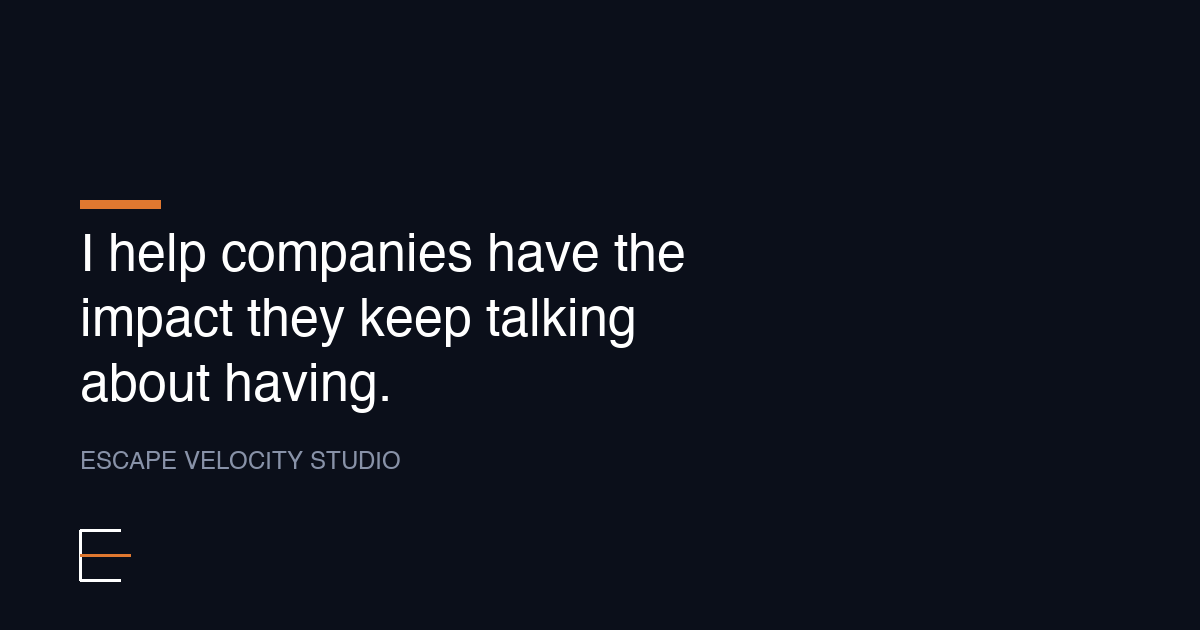
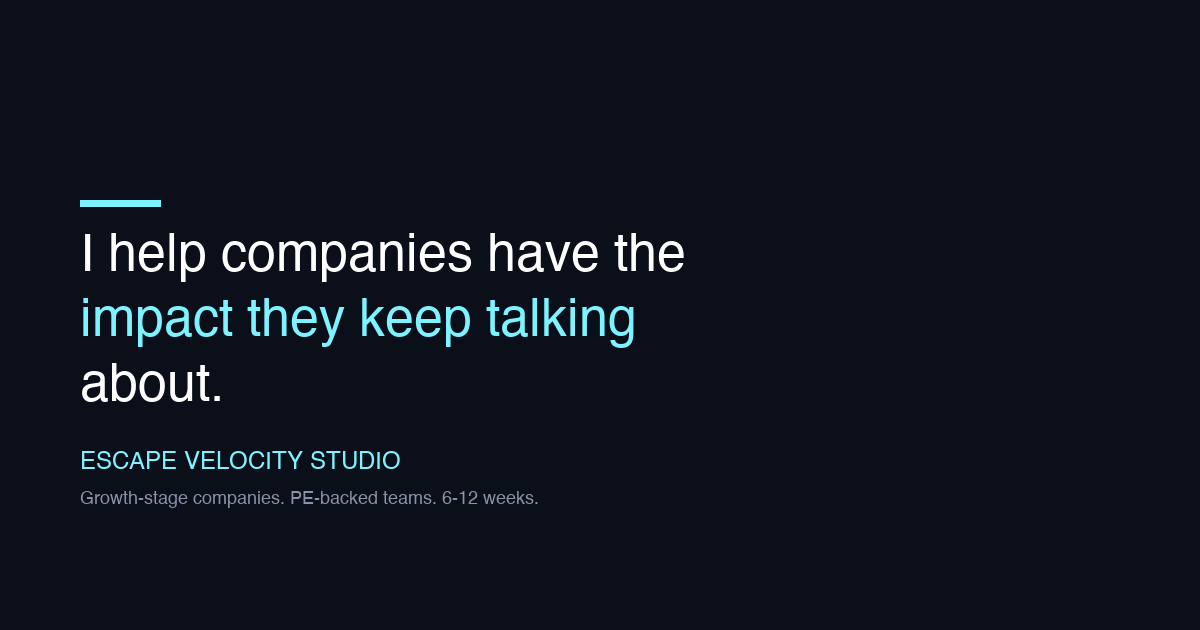
Add audience qualifier, trim #02, fix CTA label, new OG image

diff --git a/index.html b/index.html
@@ -77,8 +77,8 @@
         <img src="assets/TimdeJardine.jpeg" alt="Tim de Jardine" width="72" height="72">
       </div>
       <div class="hero-bio-text">
-        <p>I'm Tim. I've been a CPO and founder for 20 years.<br>I do short, focused stints that deliver results.</p>
-        <a href="#whatworks" class="cta-hero">Here's what works</a>
+        <p>I'm Tim. I've been a CPO and founder for 20 years.<br>I do short, focused stints that deliver results.<br>Growth-stage companies. PE-backed teams. 6-12 weeks.</p>
+        <a href="#whatworks" class="cta-hero">How I work</a>
       </div>
     </div>
   </section>
@@ -100,7 +100,7 @@
         <div class="belief-number">02</div>
         <div class="belief-inner">
           <h2>I've built the thing you're trying to build</h2>
-          <p>Products used by <strong>hundreds of millions</strong> of people. Booking.com at hyper-scale. ATHLEAN-X from zero to 2M users and 38K five-star reviews. Read Me Stories to 5M users and #1 in 80+ countries. A stalled fintech platform launched in 90 days. A fitness chain's entire digital experience rebuilt from the ground up. I've done 0-to-1, I've done scale, and I've done the messy restructure in between. The advice comes from outcomes, not from books.</p>
+          <p>Products used by <strong>hundreds of millions</strong> of people. Booking.com at hyper-scale. ATHLEAN-X from zero to 2M users and 38K five-star reviews. Read Me Stories to 5M users and #1 in 80+ countries. I've done 0-to-1, I've done scale, and I've done the messy restructure in between. The advice comes from outcomes, not from books.</p>
         </div>
       </div>
     </div>
